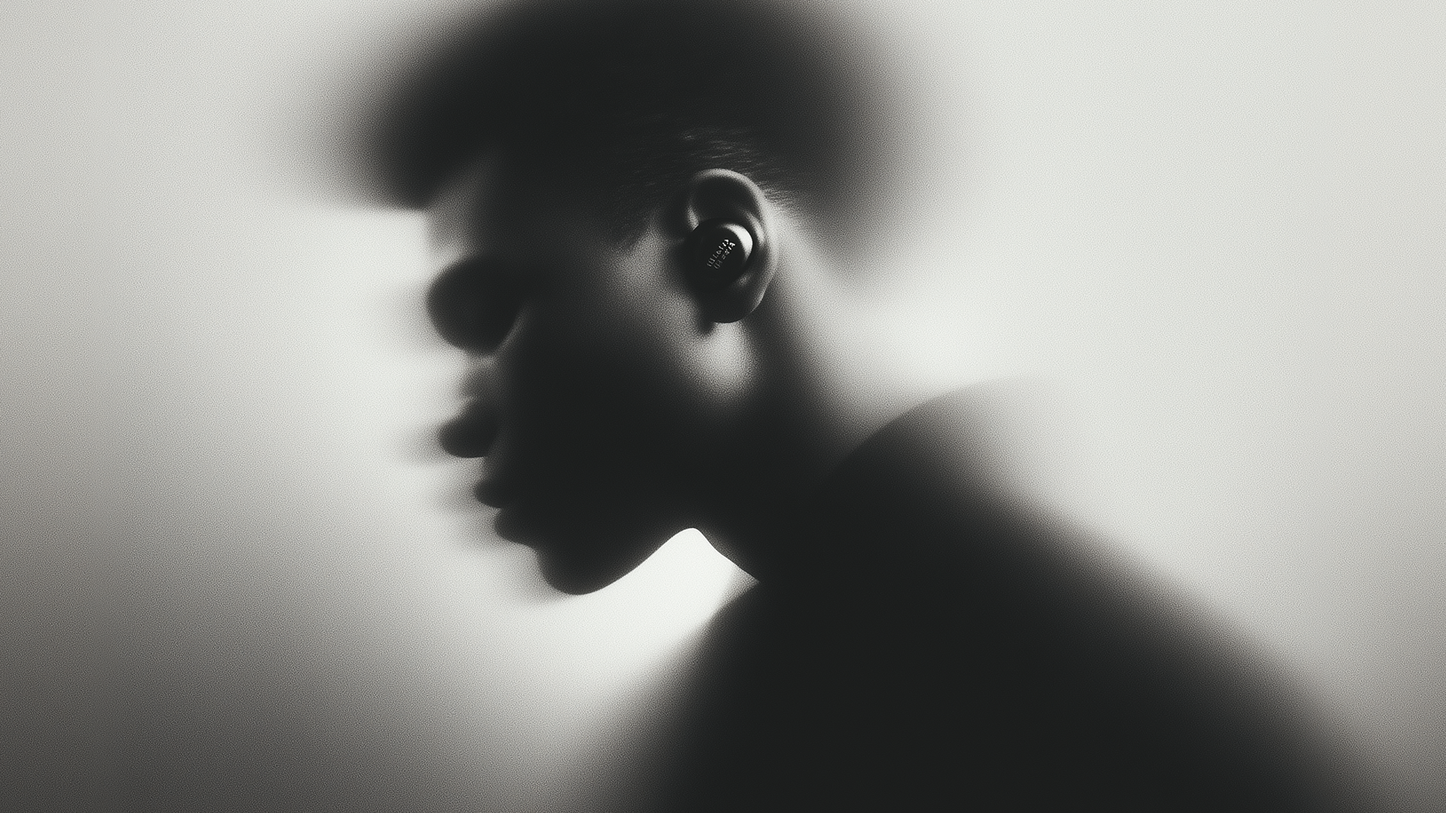
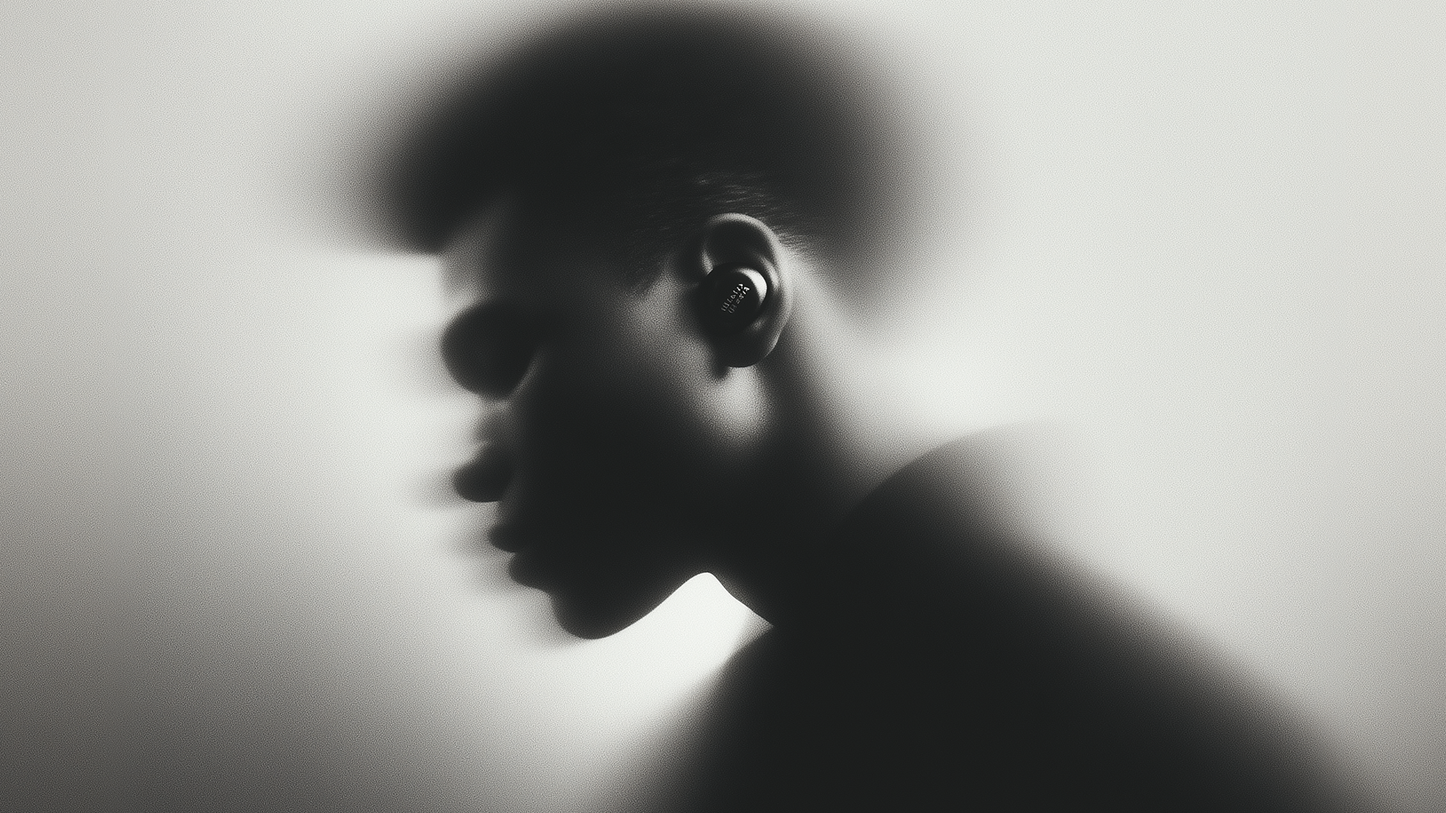
change imges

Changed region(s): [[0.0, 0.0, 1.0, 1.0]]

diff --git a/src/components/Hero.tsx b/src/components/Hero.tsx
@@ -211,33 +211,18 @@ export default function Hero() {
         transition={{ duration: 0.6, ease: "easeOut" }}
       >
         <motion.div
-          className="flex items-center justify-center text-black/70"
-          whileHover={{ scale: 1.05 }}
-          transition={{ type: "spring", stiffness: 400, damping: 10 }}
+          className="flex items-center justify-center"
+          initial={{ opacity: 0, scale: 0.9 }}
+          animate={{ opacity: 1, scale: 1 }}
+          transition={{ type: "spring", stiffness: 300, damping: 20 }}
         >
-          <motion.span
-            className="text-2xl md:text-3xl font-bold tracking-tight"
-            initial={{ opacity: 0, x: -20 }}
-            animate={{ opacity: 1, x: 0 }}
-            transition={{ delay: 0.2 }}
-          >
-            z
-          </motion.span>
-          <motion.div
-            initial={{ scale: 0, rotate: 180 }}
-            animate={{ scale: 1, rotate: 0 }}
-            transition={{ type: "spring", delay: 0.3 }}
-          >
-            <Dot className="-mx-2 md:-mx-3 size-8 md:size-12 relative  top-0.5 md:top-1 text-black/70" />
-          </motion.div>
-          <motion.span
-            className="text-2xl md:text-3xl font-bold tracking-tight"
-            initial={{ opacity: 0, x: 20 }}
-            animate={{ opacity: 1, x: 0 }}
-            transition={{ delay: 0.2 }}
-          >
-            ne
-          </motion.span>
+          <motion.img
+            src="/zone_logo.png"
+            alt="Zone Logo"
+            className="h-8 md:h-8 w-auto object-contain"
+            whileHover={{ scale: 1.05 }}
+            transition={{ type: "spring", stiffness: 400, damping: 10 }}
+          />
         </motion.div>
 
         <motion.div
@@ -442,7 +427,7 @@ export default function Hero() {
             ease: "easeInOut",
           }}
         >
-          Delivery Begins 2025
+          Delivery Begins 2026
         </motion.div>
       </motion.div>
 

diff --git a/src/components/RestlessMindSection.tsx b/src/components/RestlessMindSection.tsx
@@ -352,7 +352,7 @@ const RestlessMindSection = () => {
       </motion.div>
 
       {/* Connection lines between cards (subtle) */}
-      <svg className="absolute inset-0 w-full h-full pointer-events-none">
+      {/* <svg className="absolute inset-0 w-full h-full pointer-events-none">
         <motion.path
           d="M15% 40% Q 30% 50%, 50% 45% T 85% 55%"
           stroke="rgba(0,0,0,0.1)"
@@ -373,7 +373,7 @@ const RestlessMindSection = () => {
           viewport={{ once: true }}
           transition={{ duration: 1.5, delay: 1 }}
         />
-      </svg>
+      </svg> */}
     </motion.section>
   );
 };

diff --git a/src/components/AIDrivenAppSection.tsx b/src/components/AIDrivenAppSection.tsx
@@ -105,7 +105,7 @@ const AIDrivenAppSection = () => {
           viewport={{ once: true }}
           transition={{ delay: 0.2, duration: 0.7 }}
         >
-          the ai driven app that
+          the AI driven app that
           <br />
           translates your brain-
           <br className="hidden sm:block" />

diff --git a/src/components/Footer.tsx b/src/components/Footer.tsx
@@ -337,7 +337,7 @@ const Footer = () => {
               viewport={{ once: true }}
               transition={{ delay: 1.7 }}
             >
-              © 2025. All rights reserved. zone LLC
+              © 2026. All rights reserved. zone LLC
             </motion.span>
           </motion.div>
         </div>
